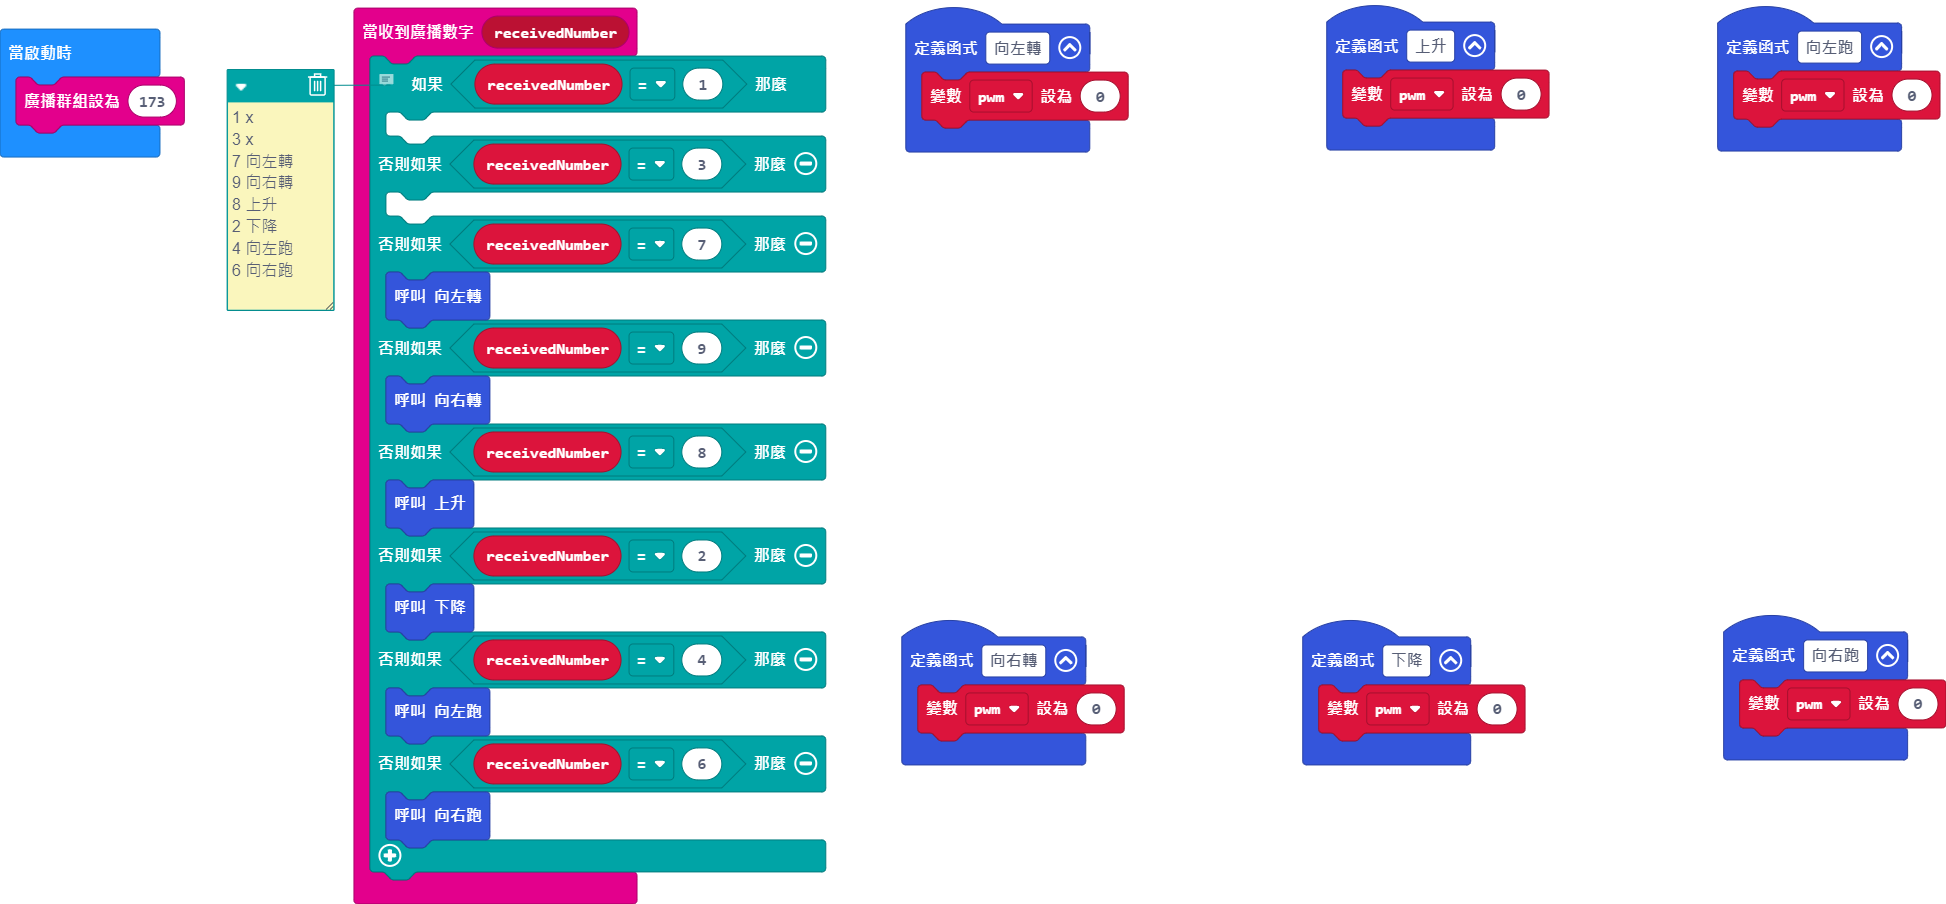
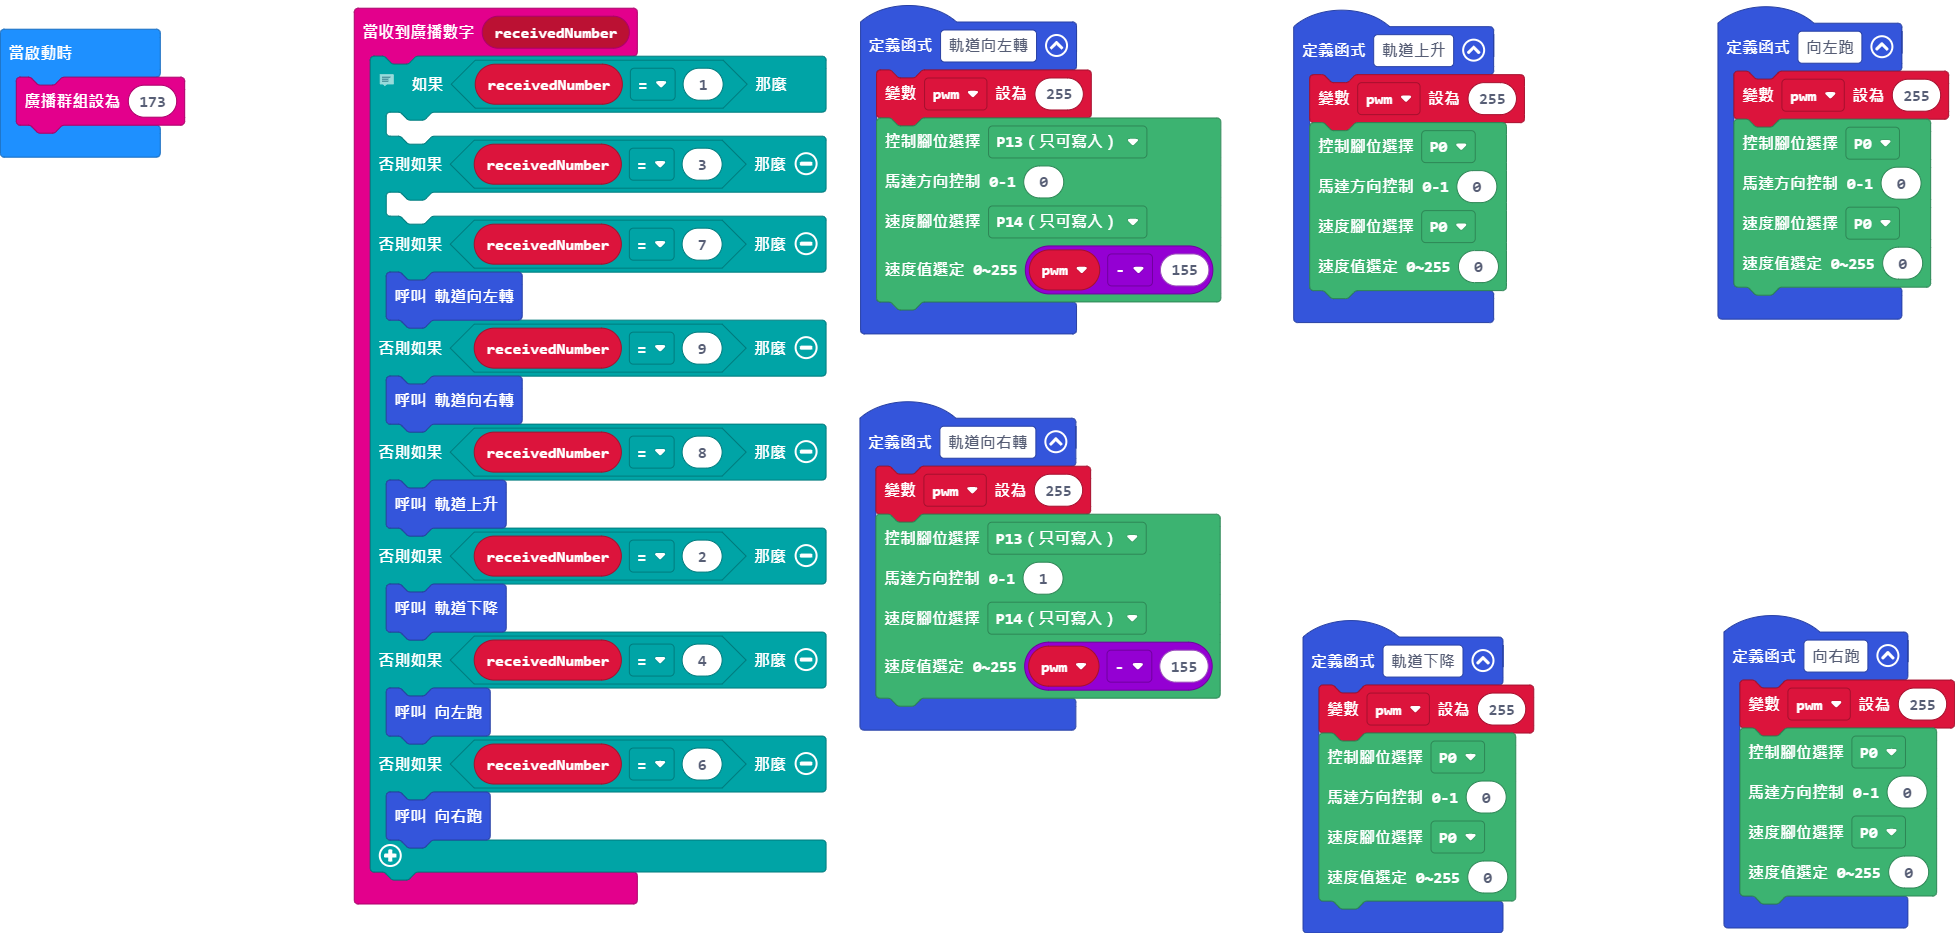
更新 main.blocks, main.ts

diff --git a/main.ts b/main.ts
@@ -1,13 +1,10 @@
-function 向右轉 () {
-    pwm = 0
-}
 radio.onReceivedNumber(function (receivedNumber) {
     // 1 x
     // 3 x
-    // 7 向左轉
-    // 9 向右轉
-    // 8 上升
-    // 2 下降
+    // 7 軌道向左轉
+    // 9 軌道向右轉
+    // 8 軌道上升
+    // 2 軌道下降
     // 4 向左跑
     // 6 向右跑
     if (receivedNumber == 1) {
@@ -15,33 +12,72 @@ radio.onReceivedNumber(function (receivedNumber) {
     } else if (receivedNumber == 3) {
     	
     } else if (receivedNumber == 7) {
-        向左轉()
+        軌道向左轉()
     } else if (receivedNumber == 9) {
-        向右轉()
+        軌道向右轉()
     } else if (receivedNumber == 8) {
-        上升()
+        軌道上升()
     } else if (receivedNumber == 2) {
-        下降()
+        軌道下降()
     } else if (receivedNumber == 4) {
         向左跑()
     } else if (receivedNumber == 6) {
         向右跑()
     }
 })
-function 向左轉 () {
-    pwm = 0
+function 軌道上升 () {
+    pwm = 255
+    sensors.DDMmotor(
+    AnalogPin.P0,
+    0,
+    AnalogPin.P0,
+    0
+    )
+}
+function 軌道下降 () {
+    pwm = 255
+    sensors.DDMmotor(
+    AnalogPin.P0,
+    0,
+    AnalogPin.P0,
+    0
+    )
 }
 function 向左跑 () {
-    pwm = 0
+    pwm = 255
+    sensors.DDMmotor(
+    AnalogPin.P0,
+    0,
+    AnalogPin.P0,
+    0
+    )
 }
-function 上升 () {
-    pwm = 0
+function 軌道向左轉 () {
+    pwm = 255
+    sensors.DDMmotor(
+    AnalogPin.P13,
+    0,
+    AnalogPin.P14,
+    pwm - 155
+    )
 }
 function 向右跑 () {
-    pwm = 0
+    pwm = 255
+    sensors.DDMmotor(
+    AnalogPin.P0,
+    0,
+    AnalogPin.P0,
+    0
+    )
 }
-function 下降 () {
-    pwm = 0
+function 軌道向右轉 () {
+    pwm = 255
+    sensors.DDMmotor(
+    AnalogPin.P13,
+    1,
+    AnalogPin.P14,
+    pwm - 155
+    )
 }
 let pwm = 0
 radio.setGroup(173)
